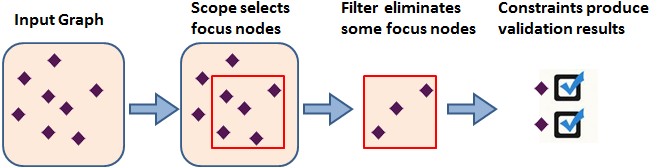
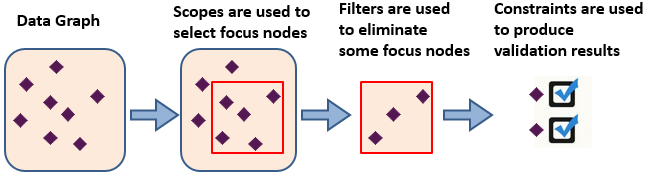
ISSUE-165: Updated validation process image, minor fixes in prose

diff --git a/shacl/index.html b/shacl/index.html
@@ -802,7 +802,7 @@ ex:Bob a ex:Person .</pre>
 				<section id="scopeClass">
 					<h4>Class-based Scopes (sh:scopeClass)</h4>
 					<p>
-						A <dfn>class scope</dfn> for class <code>$scopeClass</code> is defined as the set of all <a>SHACL instances</a> of <code>scopeClass</code> in the <a>data graph</a>.
+						A <dfn>class scope</dfn> for class <code>$scopeClass</code> is defined as the set of all <a>SHACL instances</a> of <code>$scopeClass</code> in the <a>data graph</a>.
 						<code>$scopeClass</code> must be an <a>IRI</a> that is expected to be a <a>SHACL class</a>.
 					</p>
 					<div class="def def-sparql">
@@ -841,7 +841,7 @@ ex:House a ex:Nephrologist</pre>
 						<h4>Implicit Class Scopes</h4>
 						<p>
 							When, in the <a>shapes graph</a>, a <a>shape</a> is a <a>SHACL instance</a> of both <code>sh:Shape</code> and <code>rdfs:Class</code>
-							then the shape is a class scope of itself.
+							then the <a>shape</a> is a <a>class scope</a> of itself.
 						</p>
 						<pre class="example-shapes">
 ex:Person
